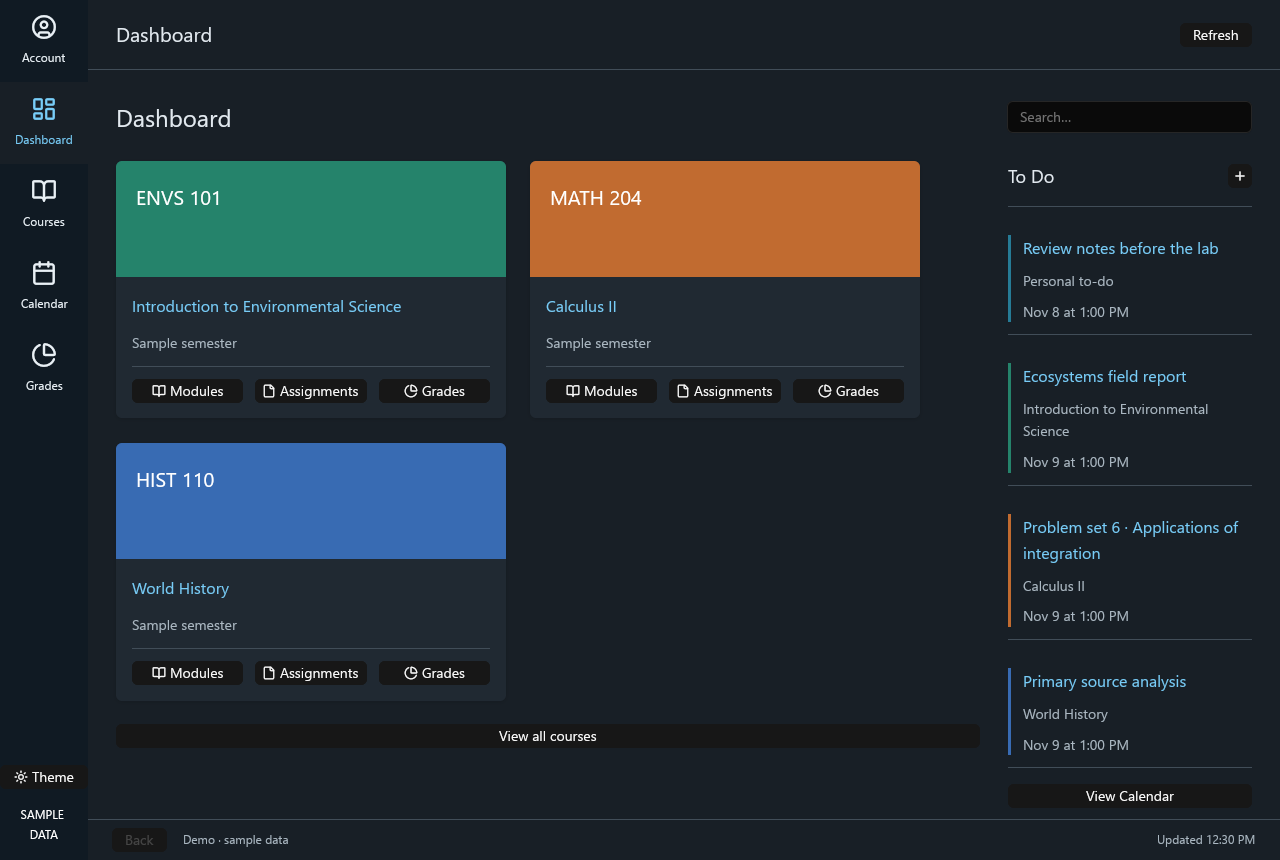
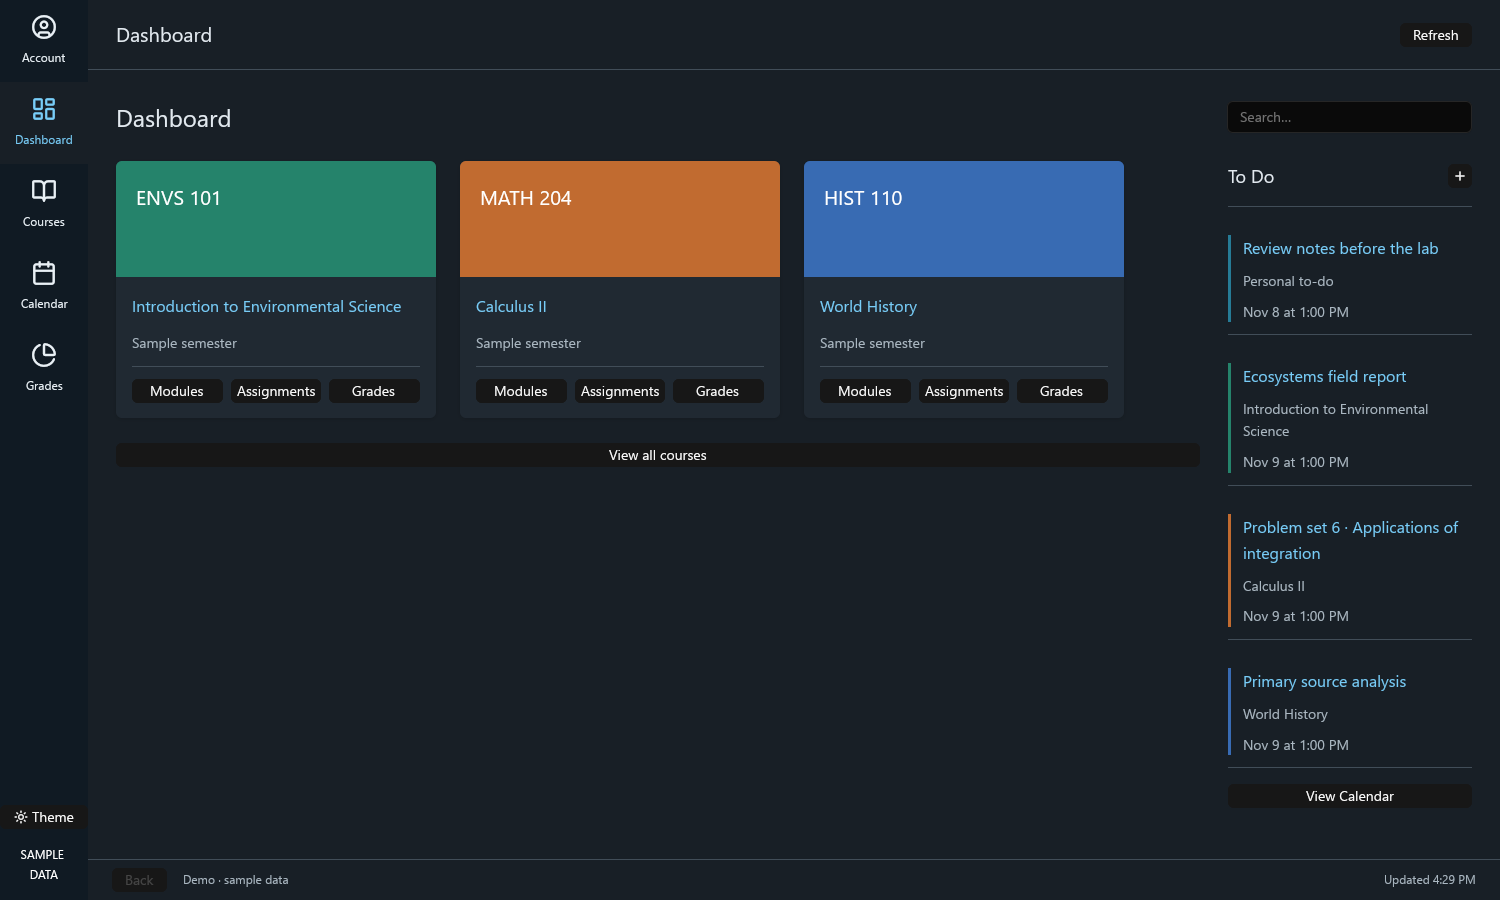
Fit reader controls on screen and align dashboard card grid
Clamp main and reader windows to the display, allow the reader
toolbar to wrap, and use fixed-width dashboard card columns so
partial rows stay aligned.

diff --git a/src/views.rs b/src/views.rs
@@ -758,19 +758,18 @@ impl CanvasApp {
             let mut shortcuts = div()
                 .flex()
                 .justify_between()
-                .gap_3()
+                .gap_2()
                 .pt_3()
                 .border_t_1()
                 .border_color(rgb(colors.border));
-            for (label, icon, tab) in [
-                ("Modules", IconName::BookOpen, CourseTab::Modules),
-                ("Assignments", IconName::File, CourseTab::Assignments),
-                ("Grades", IconName::ChartPie, CourseTab::Grades),
+            for (label, tab) in [
+                ("Modules", CourseTab::Modules),
+                ("Assignments", CourseTab::Assignments),
+                ("Grades", CourseTab::Grades),
             ] {
                 shortcuts = shortcuts.child(
                     div().flex_1().min_w_0().child(
                         Button::new(SharedString::from(format!("card-{id}-{label}")))
-                            .icon(icon)
                             .label(label)
                             .small()
                             .w_full()
@@ -813,10 +812,11 @@ impl CanvasApp {
             header.style().corner_radii.top_right = Some(px(6.).into());
             cards = cards.child(
                 div()
-                    .w(px(292.))
-                    .flex_grow()
-                    .max_w(px(390.))
-                    .min_w(px(255.))
+                    // A fixed card width keeps every row on the same column
+                    // grid. Flex-grow made the final, partially filled row
+                    // wider than the rows above it.
+                    .w(px(320.))
+                    .flex_shrink_0()
                     // A border on this rounded card leaves a stepped gray ring
                     // where the child header meets the corner. A shadow keeps
                     // the edge clean in both themes.

diff --git a/src/app.rs b/src/app.rs
@@ -604,12 +604,25 @@ impl CanvasApp {
         let backend = self.backend.clone();
         let demo = self.demo;
         let title = format!("{} — Canvas Native", document.title);
-        let bounds = Bounds::centered(None, size(px(1120.), px(900.)), cx);
+        // Keep the reader inside the usable display area. A fixed 1120x900
+        // window is wider than a scaled Windows laptop display, which pushes
+        // the toolbar controls off-screen.
+        let (width, height) = cx
+            .primary_display()
+            .map(|display| {
+                let bounds = display.bounds();
+                (
+                    (f32::from(bounds.size.width) * 0.8).clamp(640., 1000.),
+                    (f32::from(bounds.size.height) * 0.8).clamp(480., 780.),
+                )
+            })
+            .unwrap_or((960., 740.));
+        let bounds = Bounds::centered(None, size(px(width), px(height)), cx);
         let opened = cx.open_window(
             WindowOptions {
                 app_id: Some(crate::window_icon::APP_ID.into()),
                 window_bounds: Some(WindowBounds::Windowed(bounds)),
-                window_min_size: Some(size(px(720.), px(520.))),
+                window_min_size: Some(size(px(600.), px(420.))),
                 titlebar: Some(TitlebarOptions {
                     title: Some(title.into()),
                     ..Default::default()

diff --git a/src/main.rs b/src/main.rs
@@ -109,12 +109,22 @@ fn main() -> anyhow::Result<()> {
                 .detach();
             })
             .detach();
-            let bounds = Bounds::centered(None, size(px(1280.), px(860.)), cx);
+            let (width, height) = cx
+                .primary_display()
+                .map(|display| {
+                    let bounds = display.bounds();
+                    (
+                        (f32::from(bounds.size.width) * 0.9).clamp(760., 1500.),
+                        (f32::from(bounds.size.height) * 0.9).clamp(480., 900.),
+                    )
+                })
+                .unwrap_or((1100., 760.));
+            let bounds = Bounds::centered(None, size(px(width), px(height)), cx);
             cx.open_window(
                 WindowOptions {
                     app_id: Some(window_icon::APP_ID.into()),
                     window_bounds: Some(WindowBounds::Windowed(bounds)),
-                    window_min_size: Some(size(px(940.), px(640.))),
+                    window_min_size: Some(size(px(760.), px(480.))),
                     titlebar: Some(TitlebarOptions {
                         title: Some("Canvas Native".into()),
                         ..Default::default()

diff --git a/README.md b/README.md
@@ -127,10 +127,10 @@ on the input platform. Virtualization and animated scrolling are separate things
 
 ## Using the client
 
-- **Dashboard:** course cards open course Home pages. Cards have direct Modules,
-  Assignments, and Grades shortcuts in equal-width columns. Upcoming work appears
-  in the To Do sidebar. Courses and upcoming work load automatically; there is no
-  request form.
+- **Dashboard:** course cards open course Home pages. Cards use a fixed 320 px
+  column grid so partial rows stay aligned, with direct Modules, Assignments, and
+  Grades shortcuts in equal-width columns. Upcoming work appears in the To Do
+  sidebar. Courses and upcoming work load automatically; there is no request form.
 - **Courses:** the global button opens a Canvas-style course drawer without
   changing the current page. Select a course, use **All Courses** to browse current
   and past enrollments, or dismiss with Close, Escape, or a click outside. Within a course, use
@@ -383,9 +383,14 @@ the signed-in Codon course page; the reader's Open in Canvas button uses the sam
 launcher, and its URL construction is unit-tested. Text & images rendered
 extracted text; both light and dark
 appearance looked correct. The
-global navigation's top book icon is gone. Course cards were checked at 1280 and
-940 window widths: the three shortcut buttons occupy equal thirds, and the
-rounded corners use a shadow edge with no stepped gray border ring. Plain Xvfb
+global navigation's top book icon is gone. The dashboard grid was checked at
+1500 and 1152 window widths: cards are 320 px wide, three equal columns at 1500
+and two at 1152, and a partial final row keeps the same card width. The three
+shortcut buttons occupy equal thirds without clipping. Main and reader windows
+are clamped to the display: on a 1280×720 display the main window opened at
+1152×648 and the reader at 1000×576; at a 640×480 reader size the toolbar wrapped
+to two rows instead of extending off-screen. Rounded corners use a shadow edge
+with no stepped gray border ring. Plain Xvfb
 has no DRI3, so Vulkan presentation fails there; the working recipe is
 `WESTON_HEADLESS=1 weston --backend=headless --renderer=gl
 --width=1800 --height=1100 --socket=wayland-99 --xwayland --no-config` and
